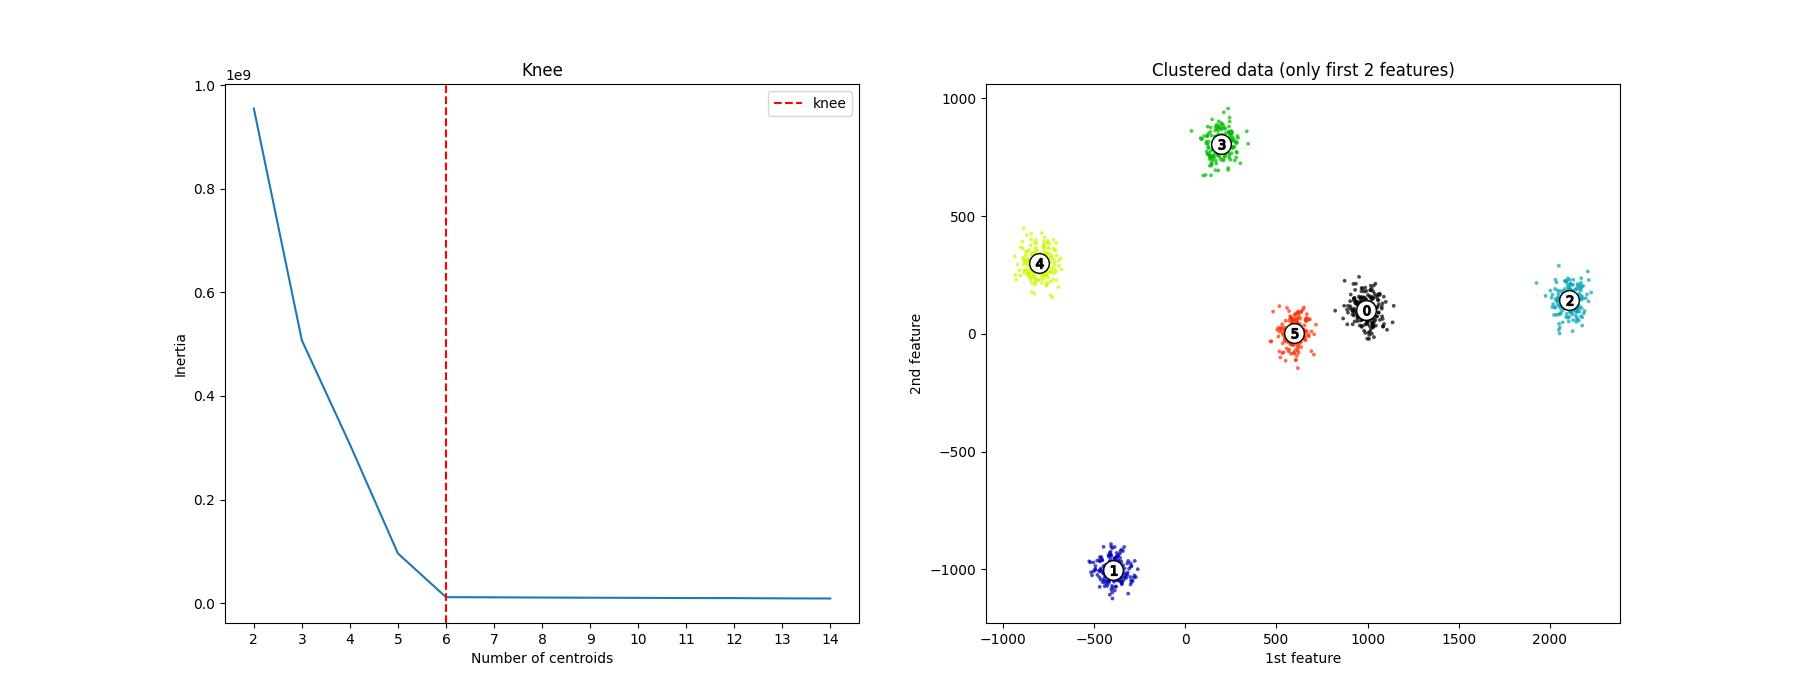
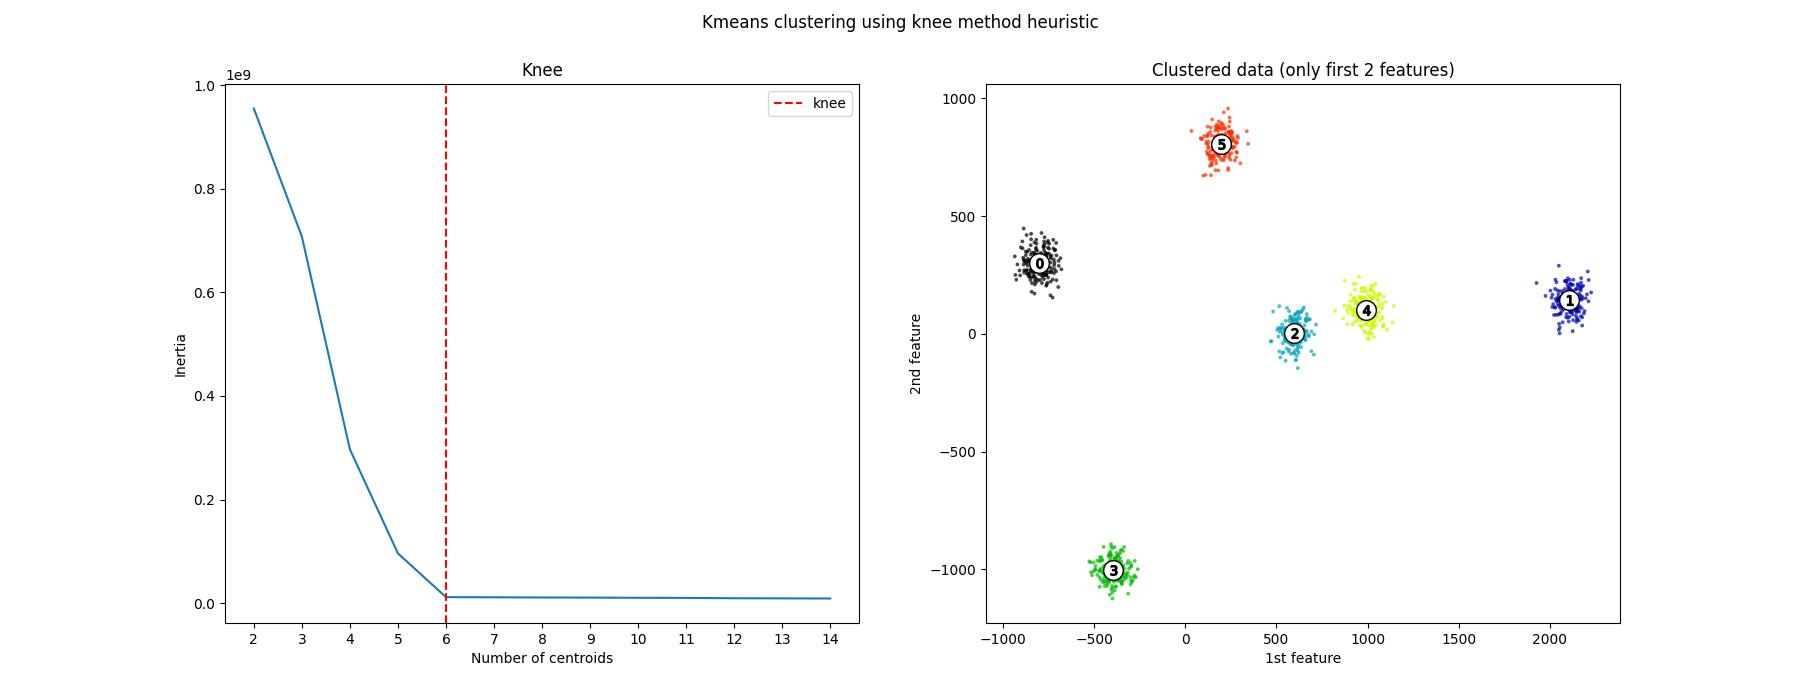
part 3: kmeans_knee: corrected minor code issues, added title to plot

diff --git a/exercise_3/kmeans_knee.py b/exercise_3/kmeans_knee.py
@@ -12,9 +12,9 @@ MIN_K = 2
 MAX_K = 15
 
 def plot_clusters(ax, X, centers, labels):
-    colors = cm.nipy_spectral(labels.astype(float) / kneedle.knee)
+    colors = cm.nipy_spectral(labels.astype(float) / len(centers))
     ax.scatter(
-        data[:, 0], data[:, 1], marker='.', s=30, lw=0, alpha=0.7, c=colors, edgecolor='k'
+        X[:, 0], X[:, 1], marker='.', s=30, lw=0, alpha=0.7, c=colors, edgecolor='k'
     )
 
     ax.scatter(
@@ -29,21 +29,21 @@ def plot_clusters(ax, X, centers, labels):
     for i, c in enumerate(centers):
         ax.scatter(c[0], c[1], marker='$%d$' % i, alpha=1, s=50, edgecolor='k')
 
-    ax2.set_title('Clustered data (only first 2 features)')
-    ax2.set_xlabel('1st feature')
-    ax2.set_ylabel('2nd feature')
+    ax.set_title('Clustered data (only first 2 features)')
+    ax.set_xlabel('1st feature')
+    ax.set_ylabel('2nd feature')
 
 
 def plot_knee(ax, inertias, knee): 
-    ax1.plot(range(MIN_K, MAX_K), inertias)
-    ax1.set_xticks(range(MIN_K, MAX_K))
+    ax.plot(range(MIN_K, MAX_K), inertias)
+    ax.set_xticks(range(MIN_K, MAX_K))
 
-    ax1.axvline(kneedle.knee, 0, 1, linestyle='--', color='r', label='knee')
+    ax.axvline(knee, 0, 1, linestyle='--', color='r', label='knee')
 
-    ax1.set_title('Knee')
-    ax1.set_xlabel('Number of centroids')
-    ax1.set_ylabel('Inertia')
-    ax1.legend()
+    ax.set_title('Knee')
+    ax.set_xlabel('Number of centroids')
+    ax.set_ylabel('Inertia')
+    ax.legend()
 
 
 kmeans_list = [KMeans(n_clusters=k, n_init='auto').fit(data) for k in range(MIN_K, MAX_K)]
@@ -61,4 +61,5 @@ fig, (ax1, ax2) = plt.subplots(1, 2)
 fig.set_size_inches(18, 7)
 plot_knee(ax1, inertias, kneedle.knee)
 plot_clusters(ax2, data, kmeans.cluster_centers_, kmeans.labels_)
+plt.suptitle('Kmeans clustering using knee method heuristic')
 plt.savefig('images/kmeans_knee.jpg')
